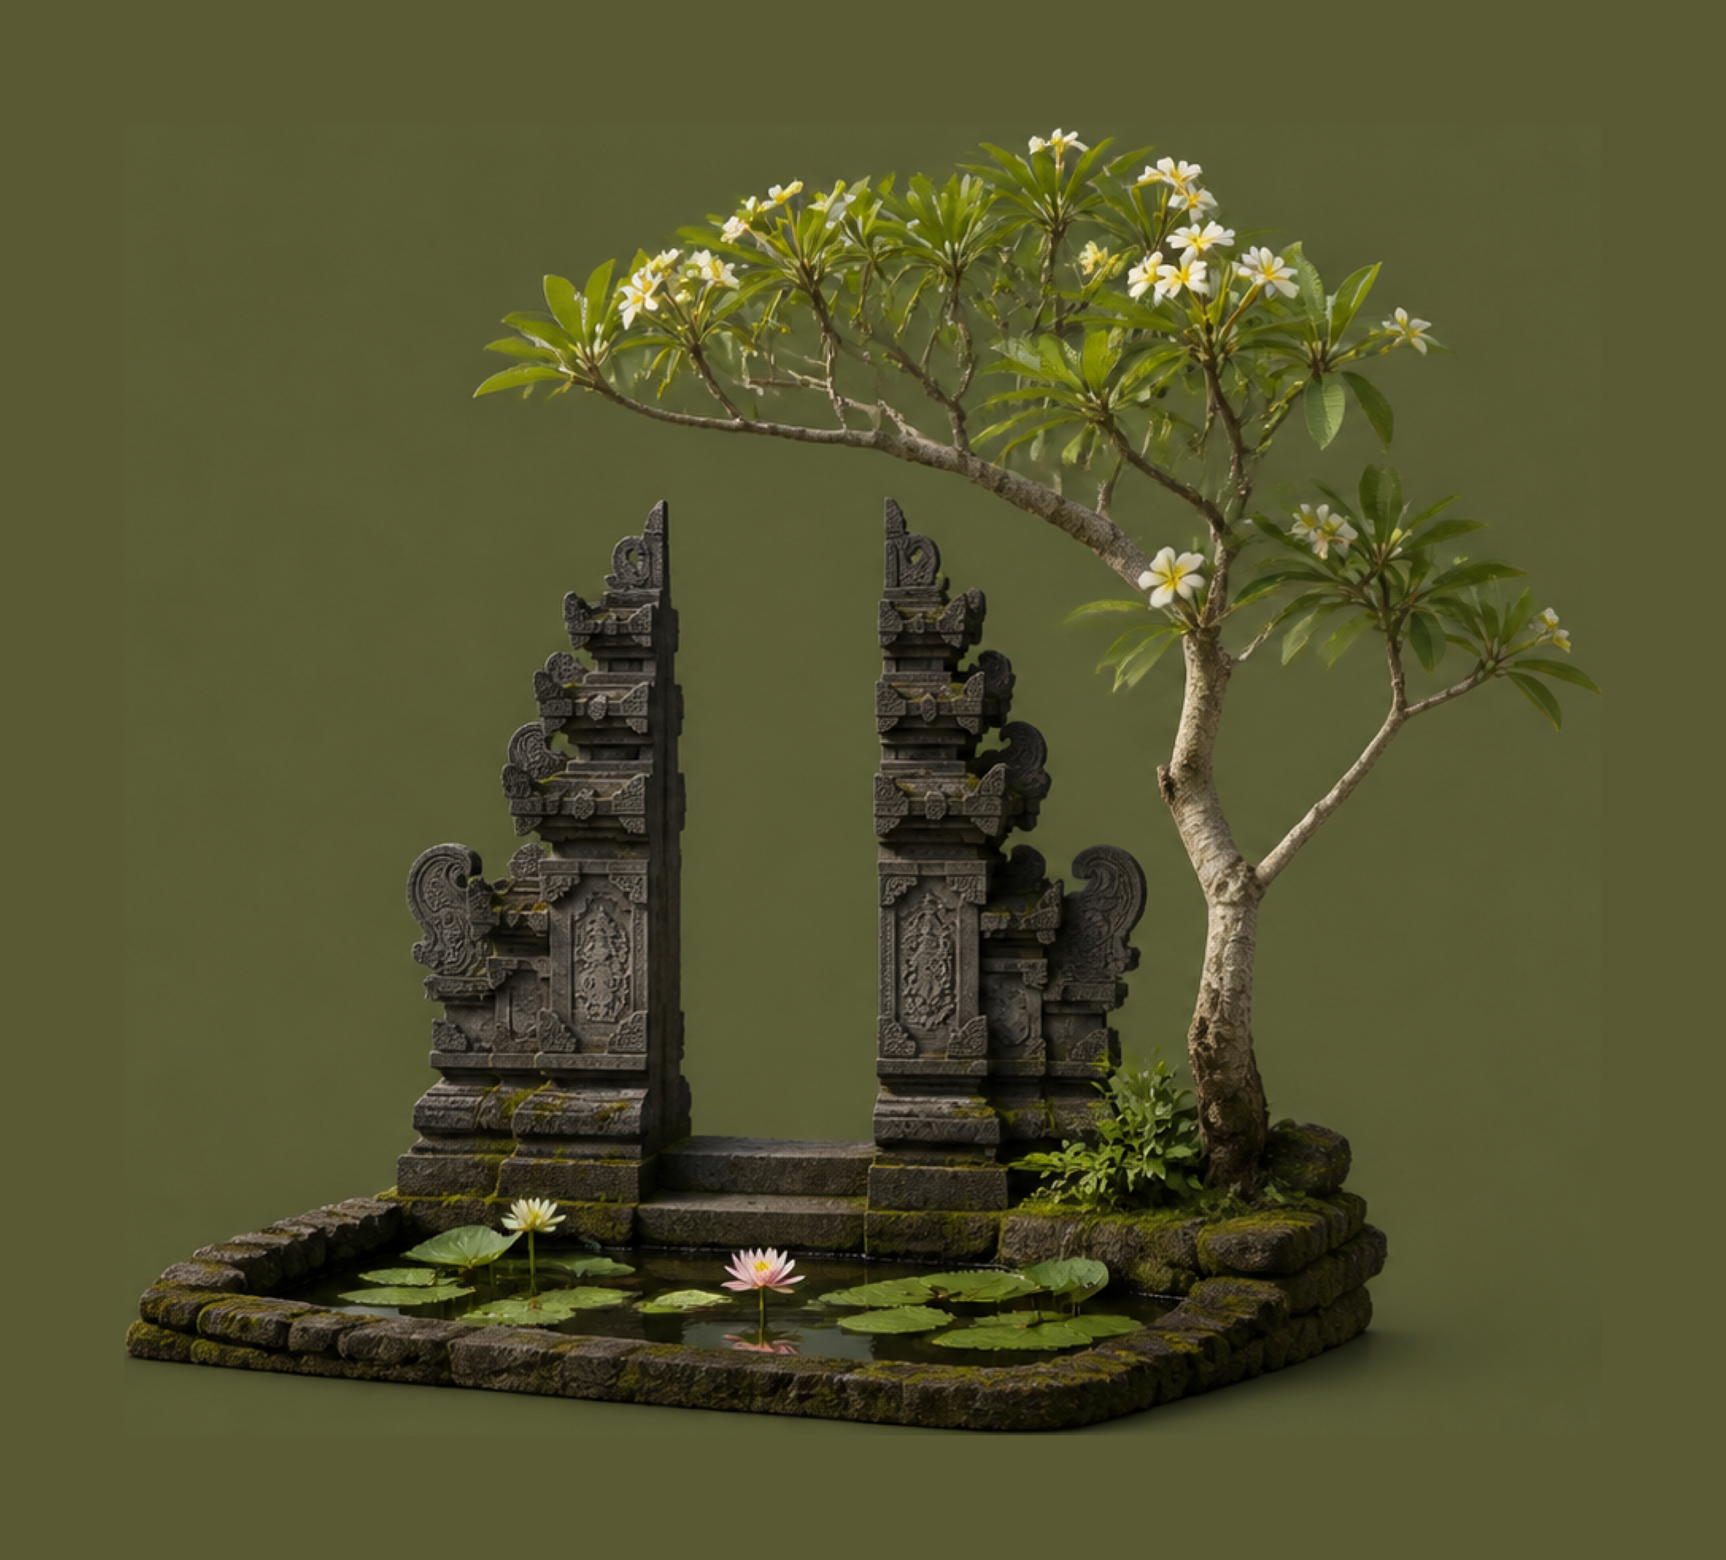
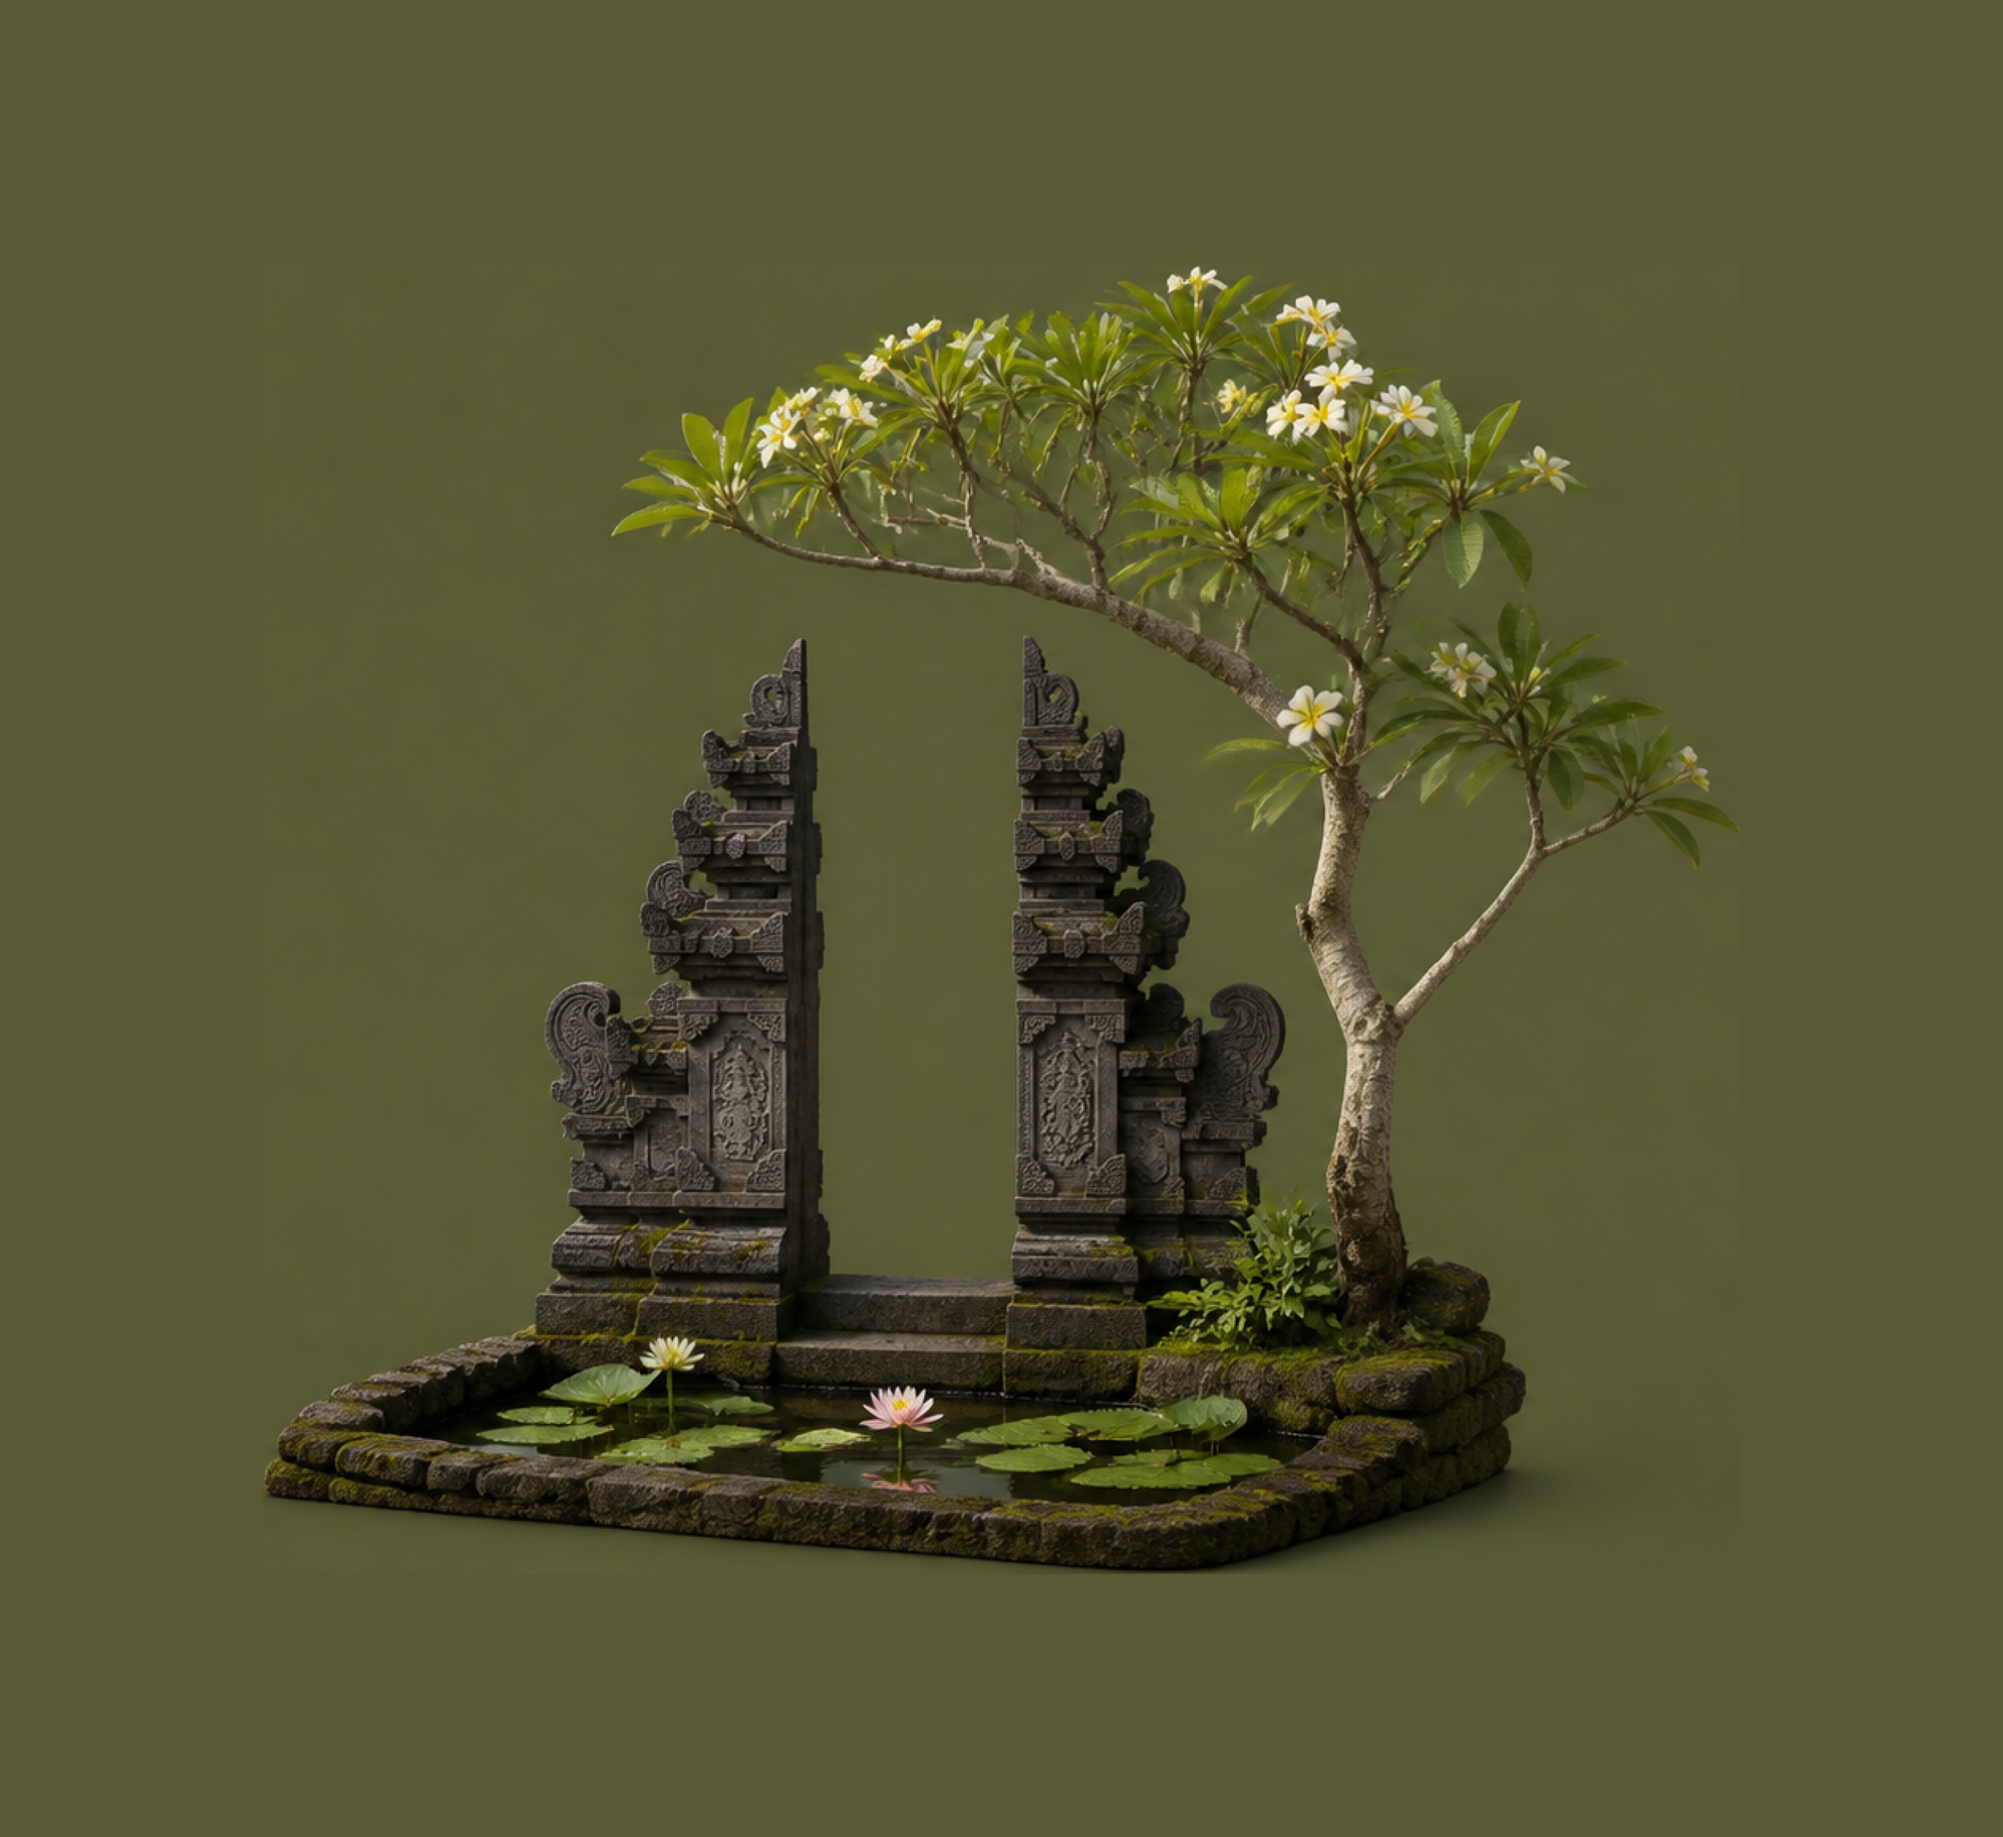
Fix visible photo borders with a two-layer mask and more padding
A single symmetric radial-gradient mask can't reach full transparency
at a box edge close to an off-center anchor without also cutting real
content on the far side of that anchor — the math is a dead end
(traced through it: even a perfectly centered anchor tops out around
27% residual opacity at the edge with the old mask, and off-center
anchors like Japan's were nearly fully opaque there). That's what was
producing the visible rectangle around every photo except the ones
caught in a state where the mismatch happened to be small.

Fixes it with two independent mask layers, intersected: a generous
radial gradient gives each photo its soft off-center vignette shape
without ever needing to fully close, while two linear "frame" layers
guarantee zero opacity at all four box edges unconditionally, since
they don't depend on the anchor position at all. Verified with a
high-contrast lime/red background swap that the fade is now genuinely
gradual on every side, not just visually plausible at a glance.

Also regenerates all six processed images with more padding (180px ->
380px), giving the frame fade more physical room to work with, and
updates each scene's mask-center percentages to match the new crops.

Changed region(s): [[0.0617, 0.0621, 0.9259, 0.9313]]

diff --git a/index.html b/index.html
@@ -180,8 +180,21 @@
   .photo-wrap {
     position: relative;
     z-index: 2;
-    -webkit-mask-image: radial-gradient(ellipse 62% 62% at var(--cx) var(--cy), black 55%, transparent 90%);
-    mask-image: radial-gradient(ellipse 62% 62% at var(--cx) var(--cy), black 55%, transparent 90%);
+    /* Two independent jobs, layered: the radial gives the object a soft organic
+       vignette around its own off-center visual anchor, sized generously so it
+       never has to fully close (and so never cuts real content that sits far
+       from the anchor). The two linear "frame" layers do the job the radial
+       can't: they guarantee zero opacity at all four box edges no matter where
+       the anchor sits, since a single symmetric ellipse centered off-center
+       mathematically cannot reach transparent on the near edge without also
+       cutting content on the far edge. mask-composite intersects all three, so
+       a pixel is only visible where every layer agrees it should be. */
+    --mask-shape: radial-gradient(ellipse 88% 88% at var(--cx) var(--cy), black 50%, transparent 97%);
+    --mask-frame-x: linear-gradient(to right, transparent 0%, black 17%, black 83%, transparent 100%);
+    --mask-frame-y: linear-gradient(to bottom, transparent 0%, black 17%, black 83%, transparent 100%);
+    -webkit-mask-image: var(--mask-shape);
+    mask-image: var(--mask-shape), var(--mask-frame-x), var(--mask-frame-y);
+    mask-composite: intersect, intersect;
   }
   .photo {
     width: 100%;
@@ -304,7 +317,7 @@
       title: 'A circle raked in sand',
       subtitle: 'Water finds the stone, and the garden listens.',
       src: 'processed-images/japan.png',
-      cx: 34.0, cy: 65.3,
+      cx: 36.2, cy: 62.4,
       paper: '#b4aaa3', ink: '#2c2824', inkSoft: '#6b625a',
       lat: 35.0116, lon: 135.7681, tz: 'Asia/Tokyo',
     },
@@ -313,7 +326,7 @@
       title: 'A channel drawn straight to the horizon',
       subtitle: 'The chahar bagh: four quarters, one line of water between them.',
       src: 'processed-images/iran.png',
-      cx: 39.2, cy: 66.1,
+      cx: 41.3, cy: 63.7,
       paper: '#e3c39f', ink: '#3a2c1c', inkSoft: '#7a6650',
       lat: 32.6546, lon: 51.6680, tz: 'Asia/Tehran',
     },
@@ -331,7 +344,7 @@
       title: 'Roses climbing a fence gone soft with age',
       subtitle: 'Foxglove, rose, and ivy, tangled the way no one planned.',
       src: 'processed-images/england.png',
-      cx: 46.4, cy: 42.9,
+      cx: 47.3, cy: 44.9,
       paper: '#9fa17d', ink: '#2a2c1f', inkSoft: '#5f624a',
       lat: 51.8330, lon: -1.8433, tz: 'Europe/London',
     },
@@ -349,7 +362,7 @@
       title: 'A split gate, standing open for no one',
       subtitle: 'Candi bentar: the mountain cut in two so the sacred can pass between.',
       src: 'processed-images/bali.png',
-      cx: 43.1, cy: 61.8,
+      cx: 44.0, cy: 60.0,
       paper: '#585a2f', ink: '#eee9db', inkSoft: '#c3bfa9',
       lat: -8.5069, lon: 115.2625, tz: 'Asia/Makassar',
     },
